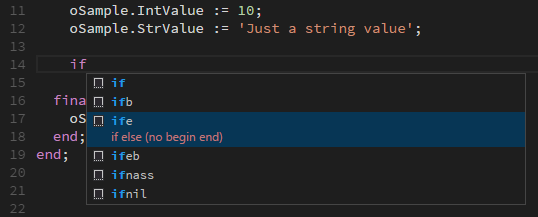
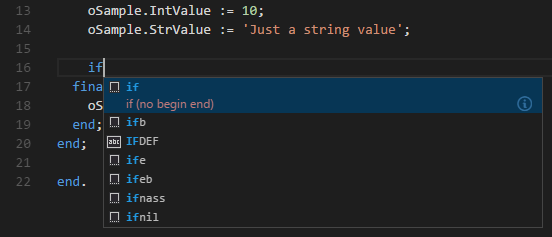
Closes #9

diff --git a/README.md b/README.md
@@ -177,6 +177,10 @@ Update two tags:
 
 # Changelog
 
+## Version 0.5.0
+
+* **New** Updated Syntax definitions (basic types, hexadecimal values, operators, flow control and others)
+
 ## Version 0.4.1
 
 * **Fix:** Toggle Line/Block Comment not working (issue [#8](https://github.com/alefragnani/vscode-language-pascal/issues/8))
